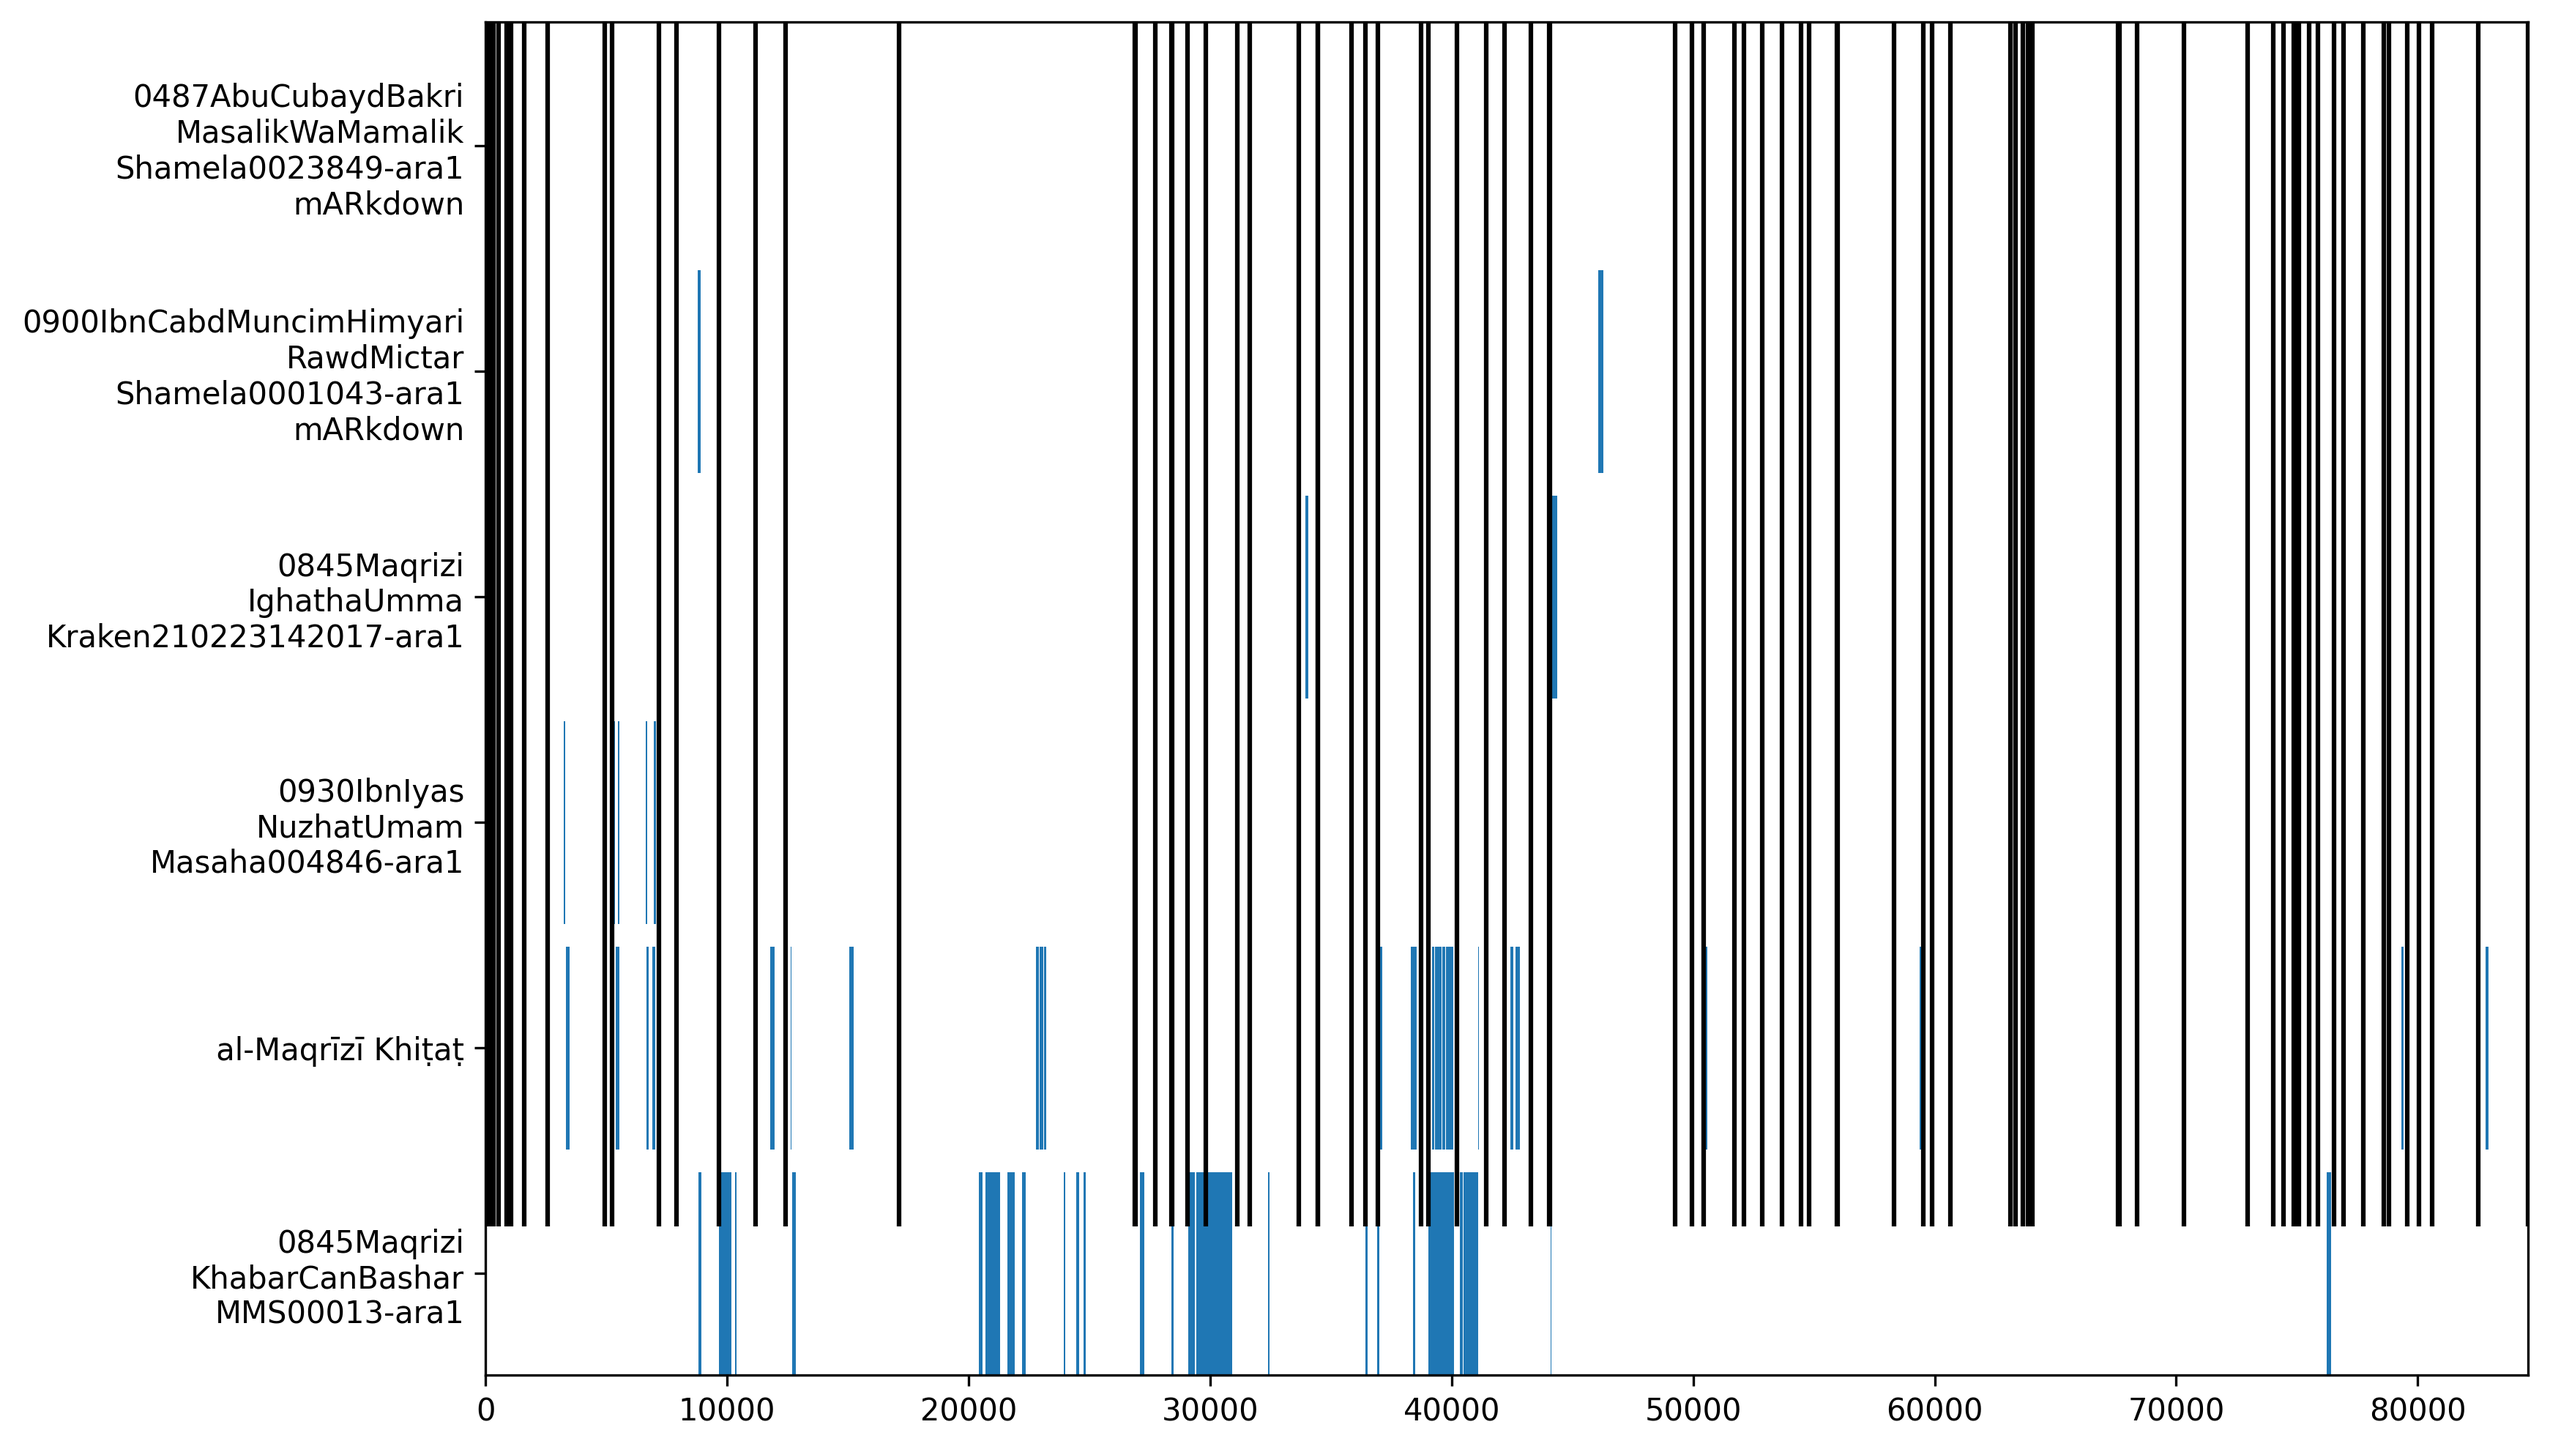
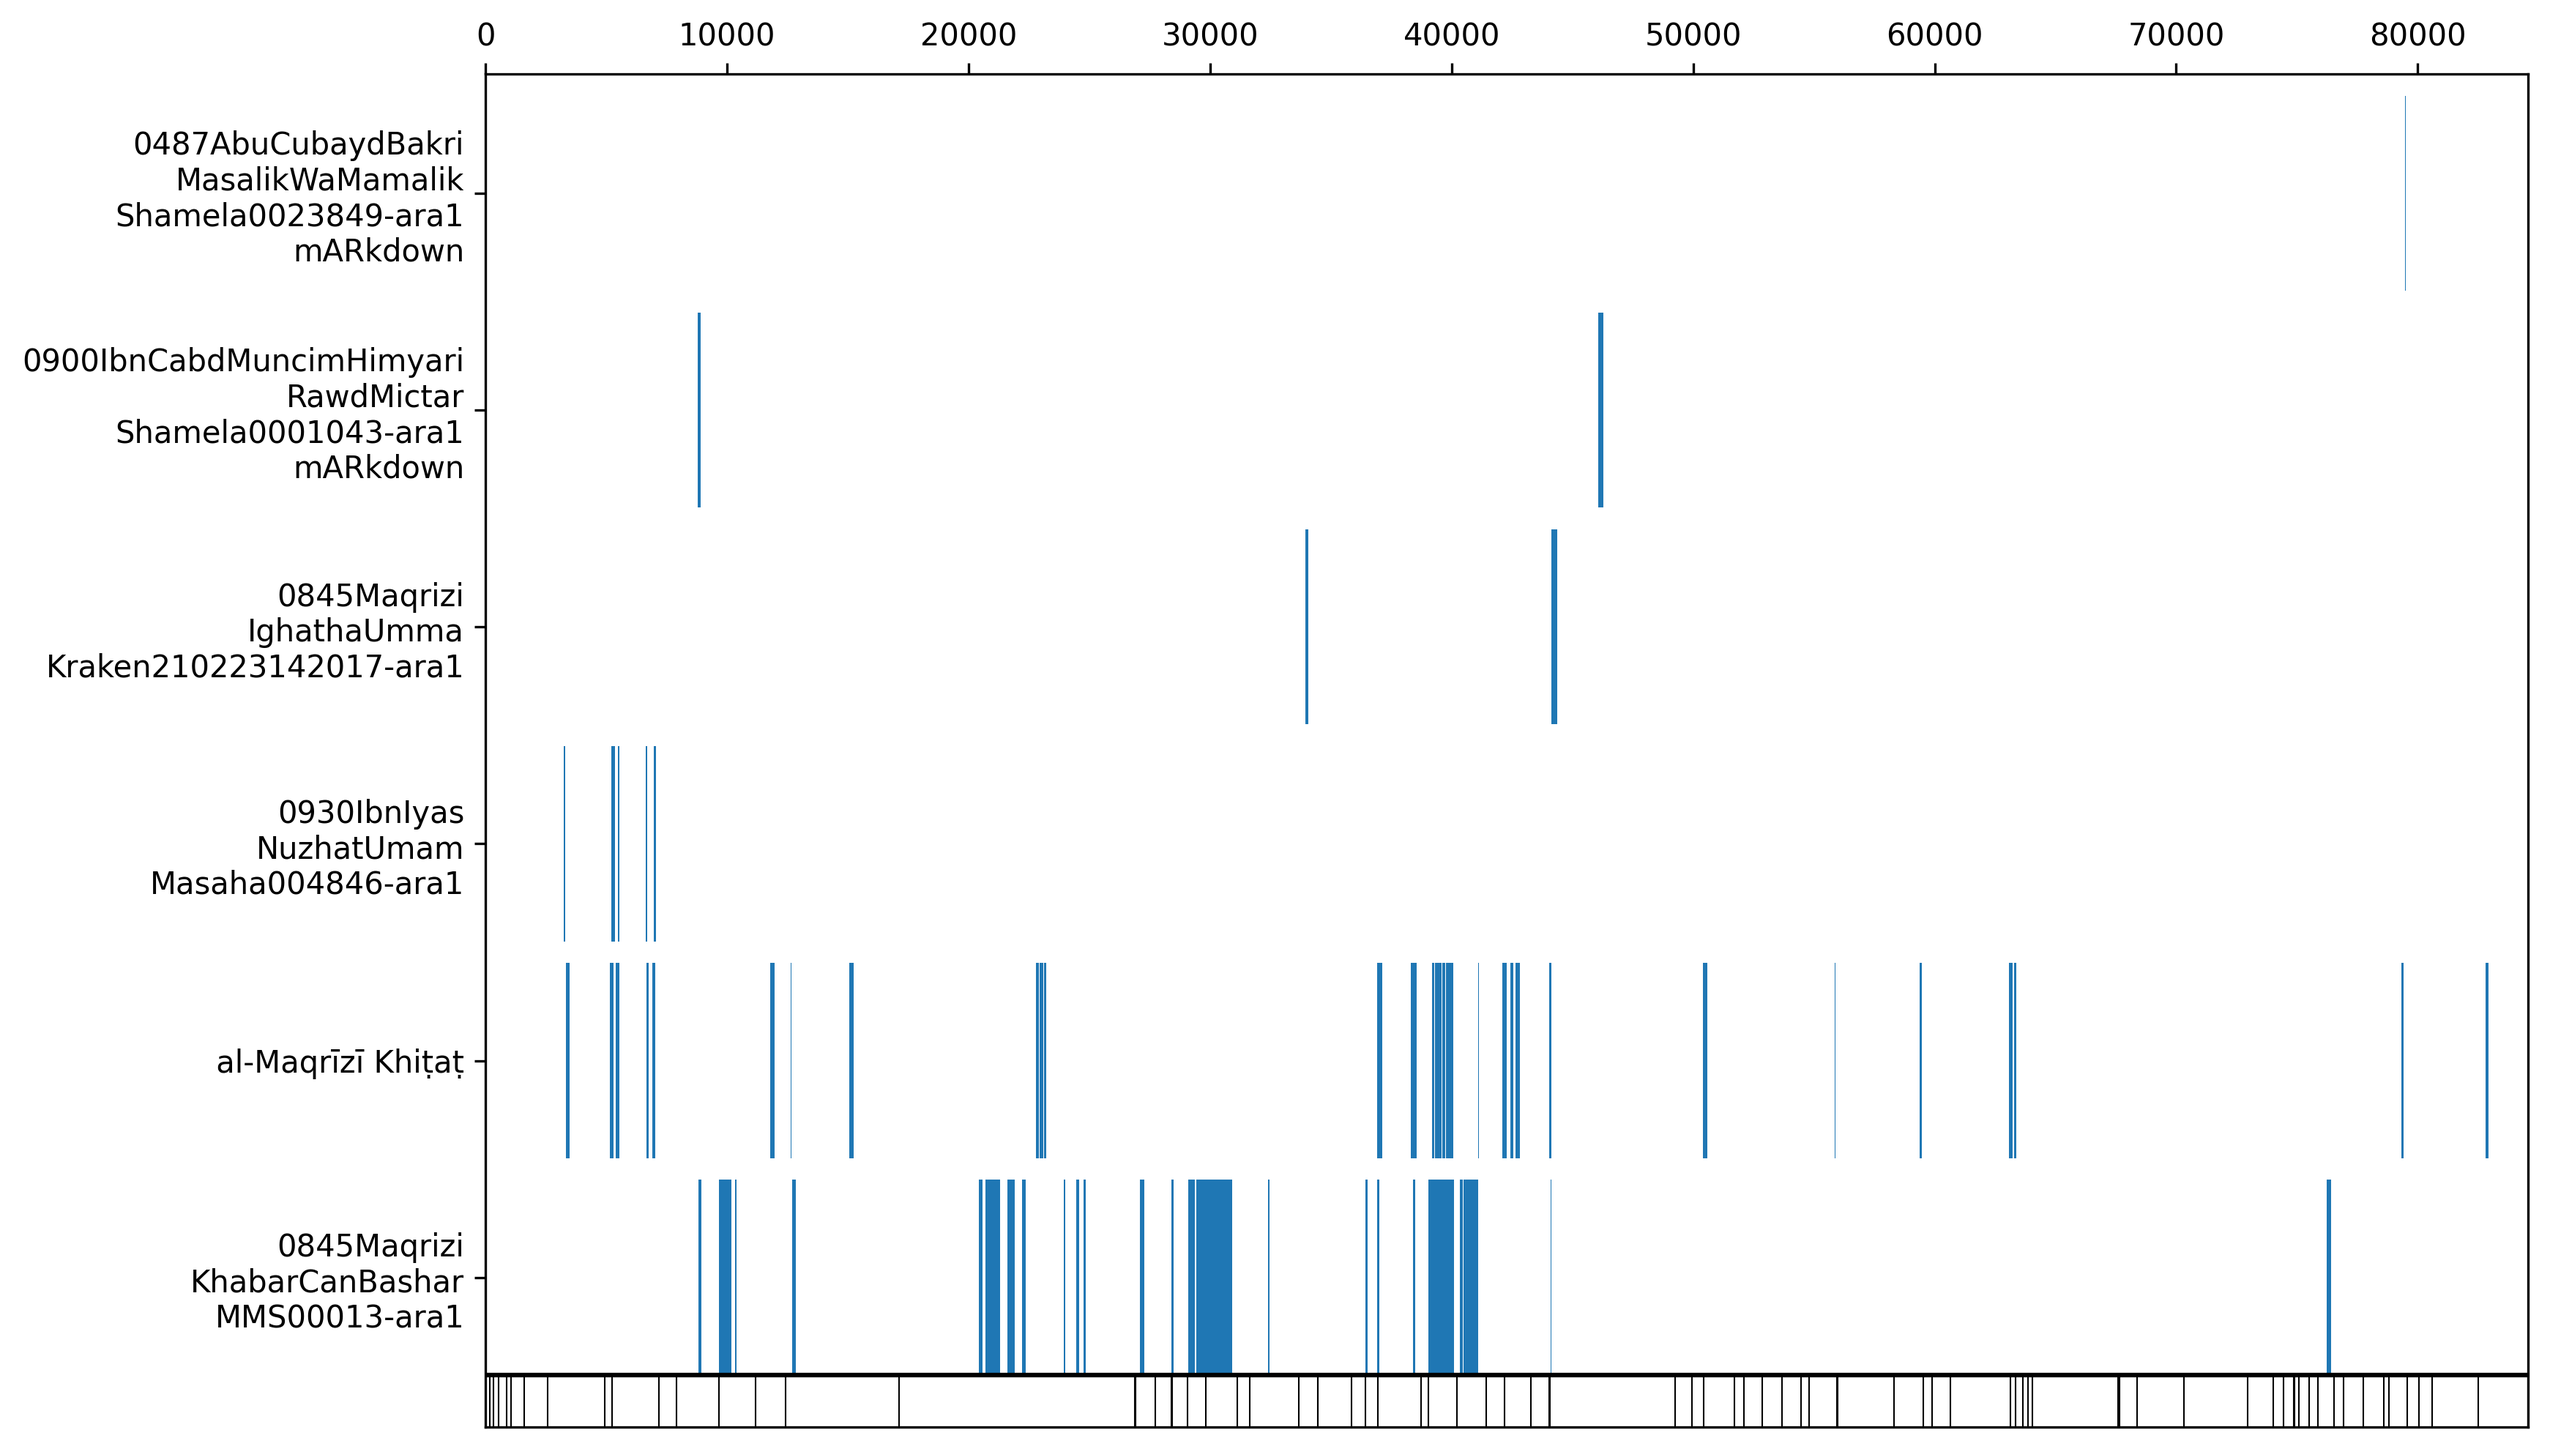
add basic vlines for sections

diff --git a/pairwise_data/graph_pairwise.py b/pairwise_data/graph_pairwise.py
@@ -112,10 +112,10 @@ class multireuseGraph():
                 
                 if len(meta_map) > 0:
                     updated_labels.append(meta_map[0])
-                    print(meta_map)
+                    
                 else:
                     label = label.replace(".", "\n")
-                    print(label)
+                    
                     updated_labels.append(label)
         else:
             updated_labels = label_list.copy()
@@ -191,27 +191,55 @@ class multireuseGraph():
         # Return patch_collection in case we need to make edits later
         return patch_collection
 
-    def _calculate_height_from_decimal(self, decimal_height, pos):
-        """Use a decimal (a percentage) to produce new height data that represents the data within the graph itself
-        pos: top - move to top of the graph, bottom - move to bottom of graph
-        TODO: Test this logic with top and bottom config - to check it draws as expected - ISSUES HERE NEED RESOLUTION"""
-
+    def _calculate_height_from_decimal(self, decimal_height):
+        """Convert a decimal proportion into an height relative to the graph data"""
         act_height = self.ax_height*decimal_height
-        if decimal_height < 0: 
-            if pos=='bottom':
-                act_height = 1 - act_height
-            else:
-                act_height = self.ax_height+act_height
-                self.ax_height = act_height
-        else:
-            if pos == 'top':
-                act_height = self.ax_height-act_height
-                self.ax_height = act_height
-        
-        return act_height    
 
-    def _write_section_maps(self, add_vlines=True, vline_start=-0.1, vline_height=0, heading_levels=None, exclude_bios=False, 
-                            add_labels=True, pos='top'):
+    def _add_section_lines(self, x_pos, outside_axis, inside_axis, pos, keep_offset_scale=True):
+        """Use a list of x positions, and floats for proportion of data outside axis and inside axis to add vlines,
+        and a horizonal line to add the section annotation.
+        x_pos: list of values along x axis for position of vlines
+        outside_axis: how far outside of the axis should the line be (as a decimal representation of the data 0.1 == lines 10% length of total data)
+        inside_axis: how far into the graph should the lines be (as a decimal representation of the data 0.1 == lines 10% length of total data inside graph)
+        pos: position of section lines - 'top' == above graph, 'bottom' == below graph
+        keep_offset_scale: if True, retain a measure of the number of tokens/chars into text on the axis. If True and pos == 'bottom' - token scale is moved
+                            to the top of the graph
+        TODO: Add option for hierachical section shading
+
+        Use a decimal (a percentage) to produce new height data that represents the data within the graph itself
+        pos: top - move to top of the graph, bottom - move to bottom of graph
+        TODO: Test this logic with top and bottom config - to check it draws as expected - ISSUES HERE NEED RESOLUTION
+        Need to return to this and reappraise logic as confounding two factors"""
+
+        # Calculate line top and bottom depending on pos
+        if pos == 'bottom':
+            bottom = 1 - (outside_axis*self.ax_height)
+            top = inside_axis*self.ax_height
+            h_line_pos = 0
+        if pos == 'top':
+            bottom = self.ax_height - (inside_axis*self.ax_height)
+            top = self.ax_height + (outside_axis*self.ax_height)
+            h_line_pos = self.ax_height
+        
+        # If keep_offset_scale and 'bottom' - move the scale to the top - otherwise remove axis
+        if keep_offset_scale:
+            if pos == 'bottom':
+                self.ax.xaxis.tick_top()
+        else:
+            self.ax.xaxis.set_visible(False)
+        
+        # Draw a horizontal line for the start of the section labelling
+        self.ax.axhline(h_line_pos, color='black')
+        
+        # Add the vlines
+        self.ax.vlines(x_pos, bottom, top, color='black', linewidth=0.5)
+
+        # Reset plot ylims to make the data visible - taking maximum top and bottom of the data
+        self.ax.set_ylim(min([0, bottom]), max([self.ax_height, top]))
+
+
+    def _write_section_maps(self, add_vlines=True, vline_start=0.1, vline_height=0, heading_levels=None, exclude_bios=False, 
+                            add_labels=True, pos='top', keep_offset_scale=True):
         """Add the section labels to the graph
         add_vlines: add vlines as well as the labels to the x-axis
         vline_start: position on graph (as percentage of data to start the vline) - -0.1 = start below the xaxis, 10% of total height of graph
@@ -221,15 +249,12 @@ class multireuseGraph():
         heading_levels: which heading levels to use as list [1,2] - use levels 1 and 2 - if None, use all in the data
         add_labels: add labels to the xaxis based on labels in the data
         pos: 'top' - labels and section markers at the top of the graph, 'bottom' labels and sections markers at the bottom of the graph
+        keep_offset_scale: keep the scale in chars or tokens, position will be altered based on the pos of the section labels
         """
         section_map = self.data_store["section_map"]
         if section_map is None:
             print("Cannot add vlines for sections without sections")
         else:
-            # Calculate the actual height of the vlines - taking into account desired position
-            vline_start = self._calculate_height_from_decimal(vline_start, pos)
-            vline_height = self._calculate_height_from_decimal(vline_height, pos)
-            
             # Filter the data based on level and bio
             if heading_levels is not None:
                 section_map = section_map[section_map["level"].isin(heading_levels)]
@@ -239,13 +264,7 @@ class multireuseGraph():
             # Add vlines using remaining data
             if add_vlines:
                 section_pos = section_map["offset"].values.tolist()
-                
-                # ADD: Line thickness reduction, ability to shade based on heading level
-                self.ax.vlines(section_pos, vline_start, vline_height, color='black')
-            # Add labels using remaining data - if bottom we remove tokens/chars from axis and change label
-            
-            # Reset ylim after changes to account for changes in chart height
-            self.ax.set_ylim(0, self.ax_height)
+                self._add_section_lines(section_pos, vline_start, vline_height, pos=pos, keep_offset_scale=keep_offset_scale)
 
     def _calculate_set_xlim(self, end_marker="text_end"):
         """From data infer xlims"""
@@ -273,6 +292,7 @@ class multireuseGraph():
         self.fig = plt.figure(figsize=figsize)
         self.ax = self.fig.add_subplot(1, 1, 1)
         self.ax_height=0
+        self.ax_bottom=0
 
         patch_collection = self._write_graph_patches(row_gap=row_gap, sort_strategy=sort_strategy)
         self._calculate_set_xlim()

diff --git a/main.py b/main.py
@@ -14,9 +14,9 @@ data_dir = "./data/outputs/0375AnonymousTranslator.TarikhCalamUrusiyus"
 
 multireuse_graph = multireuseGraph(data_dir)
 multireuse_graph.create_reuse_graph(sort_strategy="chron")
-multireuse_graph._write_section_maps(vline_height=1, pos='bottom')
+multireuse_graph._write_section_maps(vline_height=0, vline_start=0.05, pos='bottom')
 multireuse_graph.fig.savefig("chron_test.png", bbox_inches="tight", dpi=300)
 
 multireuse_graph.create_reuse_graph(sort_strategy="reuse")
-multireuse_graph._write_section_maps(vline_height=1, pos='bottom')
+multireuse_graph._write_section_maps(vline_height=0, vline_start=0.05, pos='bottom')
 multireuse_graph.fig.savefig("reuse_test.png", bbox_inches="tight", dpi=300)
